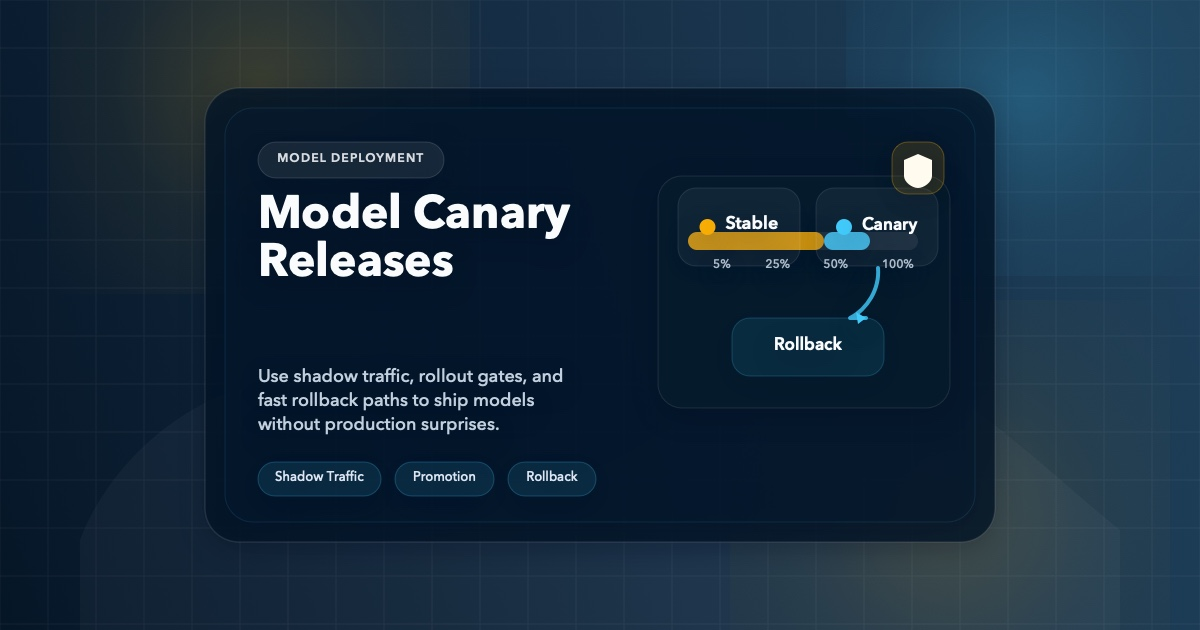
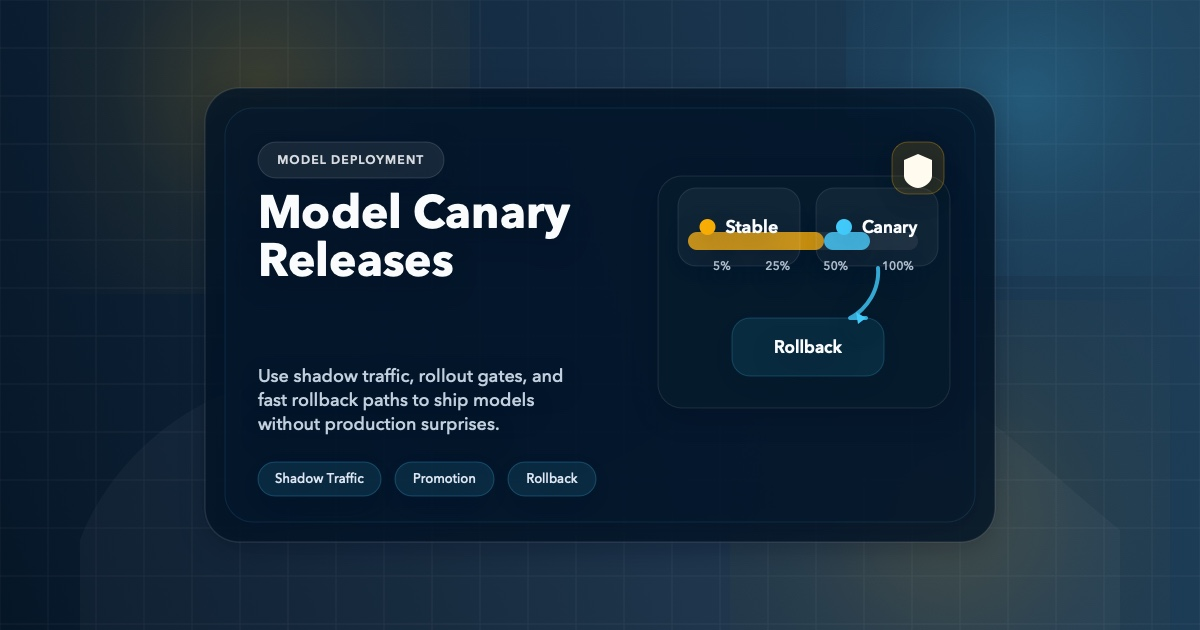
fixed blog cover image vertical

diff --git a/scripts/generate-blog-images.swift b/scripts/generate-blog-images.swift
@@ -155,6 +155,35 @@ func drawCenteredText(
     lineHeight: CGFloat = 1.0,
     kern: CGFloat = 0
 ) {
+    let singleLine = !text.contains("\n")
+    if singleLine {
+        let paragraph = NSMutableParagraphStyle()
+        paragraph.alignment = alignment
+        paragraph.lineBreakMode = .byClipping
+
+        let attrs: [NSAttributedString.Key: Any] = [
+            .font: font,
+            .foregroundColor: textColor,
+            .paragraphStyle: paragraph,
+            .kern: kern
+        ]
+
+        let measured = NSString(string: text).size(withAttributes: attrs)
+        let centeredRect = NSRect(
+            x: rect.origin.x,
+            y: rect.origin.y + max(0, floor((rect.height - ceil(measured.height)) / 2)),
+            width: rect.width,
+            height: ceil(measured.height)
+        )
+
+        NSString(string: text).draw(
+            with: centeredRect,
+            options: [.usesLineFragmentOrigin],
+            attributes: attrs
+        )
+        return
+    }
+
     let attrs = makeTextAttributes(
         font: font,
         color: textColor,
@@ -171,7 +200,7 @@ func drawCenteredText(
 
     let centeredRect = NSRect(
         x: rect.origin.x,
-        y: rect.origin.y + max(0, (rect.height - ceil(measured.height)) / 2),
+        y: rect.origin.y + max(0, floor((rect.height - ceil(measured.height)) / 2)),
         width: rect.width,
         height: ceil(measured.height)
     )
